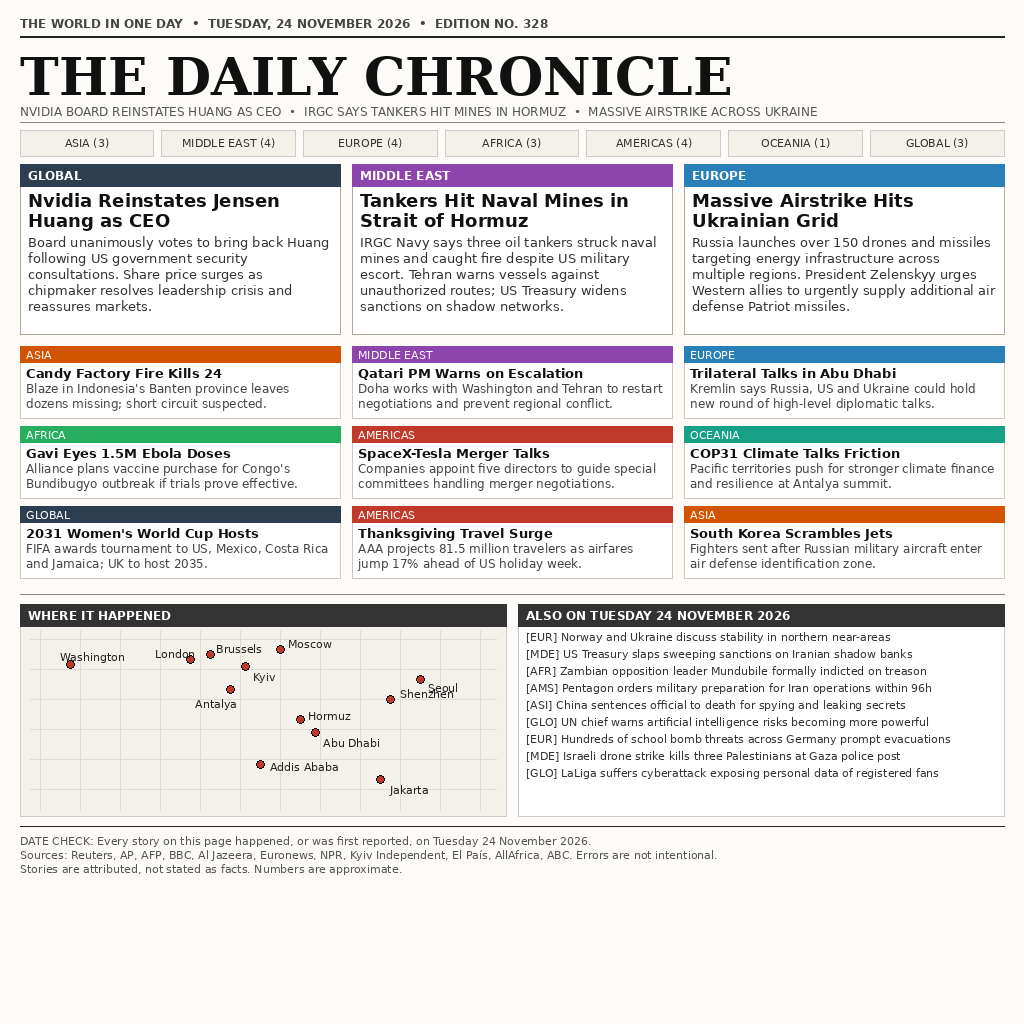
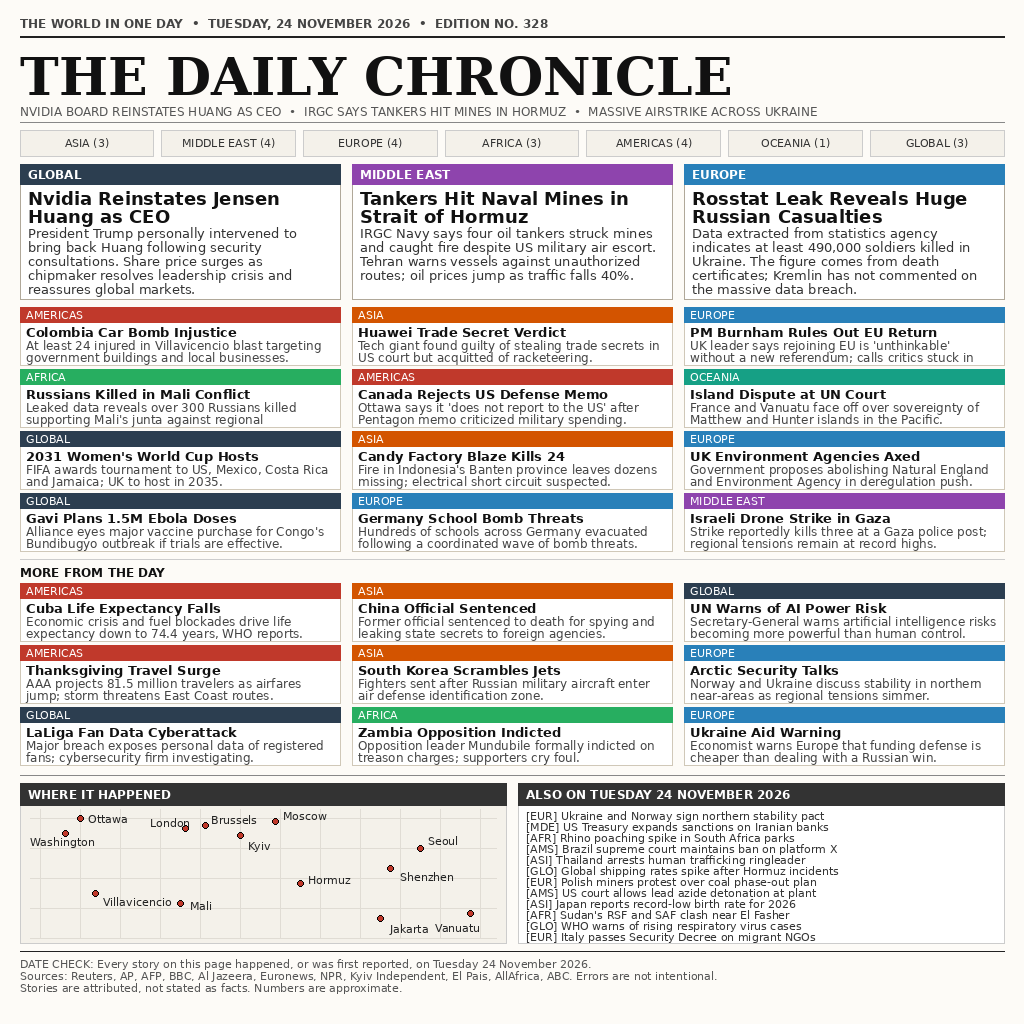
Round 3: denser front page, 3x3 MORE FROM THE DAY grid, fixed map labels, footer fits

diff --git a/gen_image.py b/gen_image.py
@@ -79,51 +79,54 @@ def generate_image(output_path="entry.png"):
         bx += box_w + 8
     y += 34
 
-    # 4. Three Big Story Cards (height 170)
+    # 4. Three Big Story Cards (height 150)
     big_stories = [
-        ("GLOBAL", "#2C3E50", "Nvidia Reinstates Jensen Huang as CEO", "Board unanimously votes to bring back Huang following US government security consultations.", "Share price surges as chipmaker resolves leadership crisis and reassures markets."),
-        ("MIDDLE EAST", "#8E44AD", "Tankers Hit Naval Mines in Strait of Hormuz", "IRGC Navy says three oil tankers struck naval mines and caught fire despite US military escort.", "Tehran warns vessels against unauthorized routes; US Treasury widens sanctions on shadow networks."),
-        ("EUROPE", "#2980B9", "Massive Airstrike Hits Ukrainian Grid", "Russia launches over 150 drones and missiles targeting energy infrastructure across multiple regions.", "President Zelenskyy urges Western allies to urgently supply additional air defense Patriot missiles.")
+        ("GLOBAL", "#2C3E50", "Nvidia Reinstates Jensen Huang as CEO", "President Trump personally intervened to bring back Huang following security consultations.", "Share price surges as chipmaker resolves leadership crisis and reassures global markets."),
+        ("MIDDLE EAST", "#8E44AD", "Tankers Hit Naval Mines in Strait of Hormuz", "IRGC Navy says four oil tankers struck mines and caught fire despite US military air escort.", "Tehran warns vessels against unauthorized routes; oil prices jump as traffic falls 40%."),
+        ("EUROPE", "#2980B9", "Rosstat Leak Reveals Huge Russian Casualties", "Data extracted from statistics agency indicates at least 490,000 soldiers killed in Ukraine.", "The figure comes from death certificates; Kremlin has not commented on the massive data breach.")
     ]
     
     card_w = (width - 2 * margin - 2 * 12) / 3
-    card_h = 170
+    card_h = 135
     cx = margin
     for tag, color, headline, line1, line2 in big_stories:
         draw.rectangle([cx, y, cx + card_w, y + card_h], outline="#B0A899", fill="#FFFFFF", width=1)
-        draw.rectangle([cx, y, cx + card_w, y + 22], fill=color)
-        draw.text((cx + 8, y + 4), tag, fill="#FFFFFF", font=font_section)
+        draw.rectangle([cx, y, cx + card_w, y + 20], fill=color)
+        draw.text((cx + 8, y + 3), tag, fill="#FFFFFF", font=font_section)
         
-        hy = y + 26
+        hy = y + 24
         for h_line in wrap_text(headline, font_big_title, card_w - 16, draw):
             draw.text((cx + 8, hy), h_line, fill="#111111", font=font_big_title)
-            hy += 20
+            hy += 18
         
-        hy += 4
+        hy += 1
         body_text = f"{line1} {line2}"
         for b_line in wrap_text(body_text, font_big_body, card_w - 16, draw):
             draw.text((cx + 8, hy), b_line, fill="#333333", font=font_big_body)
-            hy += 16
+            hy += 14
             
         cx += card_w + 12
-    y += card_h + 12
+    y += card_h + 8
 
-    # 5. 3x3 Grid of Medium Cards (height 72)
+    # 5. 3x4 Grid of Medium Cards (height 65)
     med_stories = [
-        ("ASIA", "#D35400", "Candy Factory Fire Kills 24", "Blaze in Indonesia's Banten province leaves dozens missing; short circuit suspected."),
-        ("MIDDLE EAST", "#8E44AD", "Qatari PM Warns on Escalation", "Doha works with Washington and Tehran to restart negotiations and prevent regional conflict."),
-        ("EUROPE", "#2980B9", "Trilateral Talks in Abu Dhabi", "Kremlin says Russia, US and Ukraine could hold new round of high-level diplomatic talks."),
-        ("AFRICA", "#27AE60", "Gavi Eyes 1.5M Ebola Doses", "Alliance plans vaccine purchase for Congo's Bundibugyo outbreak if trials prove effective."),
-        ("AMERICAS", "#C0392B", "SpaceX-Tesla Merger Talks", "Companies appoint five directors to guide special committees handling merger negotiations."),
-        ("OCEANIA", "#16A085", "COP31 Climate Talks Friction", "Pacific territories push for stronger climate finance and resilience at Antalya summit."),
-        ("GLOBAL", "#2C3E50", "2031 Women's World Cup Hosts", "FIFA awards tournament to US, Mexico, Costa Rica and Jamaica; UK to host 2035."),
-        ("AMERICAS", "#C0392B", "Thanksgiving Travel Surge", "AAA projects 81.5 million travelers as airfares jump 17% ahead of US holiday week."),
-        ("ASIA", "#D35400", "South Korea Scrambles Jets", "Fighters sent after Russian military aircraft enter air defense identification zone.")
+        ("AMERICAS", "#C0392B", "Colombia Car Bomb Injustice", "At least 24 injured in Villavicencio blast targeting government buildings and local businesses."),
+        ("ASIA", "#D35400", "Huawei Trade Secret Verdict", "Tech giant found guilty of stealing trade secrets in US court but acquitted of racketeering."),
+        ("EUROPE", "#2980B9", "PM Burnham Rules Out EU Return", "UK leader says rejoining EU is 'unthinkable' without a new referendum; calls critics stuck in past."),
+        ("AFRICA", "#27AE60", "Russians Killed in Mali Conflict", "Leaked data reveals over 300 Russians killed supporting Mali's junta against regional insurgents."),
+        ("AMERICAS", "#C0392B", "Canada Rejects US Defense Memo", "Ottawa says it 'does not report to the US' after Pentagon memo criticized military spending."),
+        ("OCEANIA", "#16A085", "Island Dispute at UN Court", "France and Vanuatu face off over sovereignty of Matthew and Hunter islands in the Pacific."),
+        ("GLOBAL", "#2C3E50", "2031 Women's World Cup Hosts", "FIFA awards tournament to US, Mexico, Costa Rica and Jamaica; UK to host in 2035."),
+        ("ASIA", "#D35400", "Candy Factory Blaze Kills 24", "Fire in Indonesia's Banten province leaves dozens missing; electrical short circuit suspected."),
+        ("EUROPE", "#2980B9", "UK Environment Agencies Axed", "Government proposes abolishing Natural England and Environment Agency in deregulation push."),
+        ("GLOBAL", "#2C3E50", "Gavi Plans 1.5M Ebola Doses", "Alliance eyes major vaccine purchase for Congo's Bundibugyo outbreak if trials are effective."),
+        ("EUROPE", "#2980B9", "Germany School Bomb Threats", "Hundreds of schools across Germany evacuated following a coordinated wave of bomb threats."),
+        ("MIDDLE EAST", "#8E44AD", "Israeli Drone Strike in Gaza", "Strike reportedly kills three at a Gaza police post; regional tensions remain at record highs.")
     ]
 
     grid_cols = 3
     g_w = (width - 2 * margin - 2 * 12) / 3
-    g_h = 72
+    g_h = 58
     
     gx_start = margin
     gy_start = y
@@ -132,25 +135,63 @@ def generate_image(output_path="entry.png"):
         r = i // grid_cols
         c = i % grid_cols
         gx = gx_start + c * (g_w + 12)
-        gy = gy_start + r * (g_h + 8)
+        gy = gy_start + r * (g_h + 4)
         
         draw.rectangle([gx, gy, gx + g_w, gy + g_h], outline="#D0C8B8", fill="#FFFFFF")
-        draw.rectangle([gx, gy, gx + g_w, gy + 16], fill=color)
-        draw.text((gx + 6, gy + 2), tag, fill="#FFFFFF", font=font_tiny)
+        draw.rectangle([gx, gy, gx + g_w, gy + 15], fill=color)
+        draw.text((gx + 6, gy + 1), tag, fill="#FFFFFF", font=font_tiny)
         
-        draw.text((gx + 6, gy + 19), title, fill="#111111", font=font_med_title)
+        draw.text((gx + 6, gy + 17), title, fill="#111111", font=font_med_title)
         
-        d_y = gy + 35
+        d_y = gy + 31
         for d_line in wrap_text(desc, font_med_body, g_w - 12, draw)[:2]:
             draw.text((gx + 6, d_y), d_line, fill="#444444", font=font_med_body)
-            d_y += 15
+            d_y += 12
         
-    y += 3 * (g_h + 8) + 8
-    draw.line([(margin, y), (width - margin, y)], fill="#888888", width=1)
-    y += 10
+    y += 4 * (g_h + 4) + 4
+    draw.line([(margin, y), (width - margin, y)], fill="#CCCCCC", width=1)
+    y += 6
 
-    # 6. Bottom Section: Map on left, Also on this day on right (Height = 212)
-    bottom_h = 212
+    # NEW: 3x3 'MORE FROM THE DAY' grid
+    draw.text((margin, y), "MORE FROM THE DAY", fill="#111111", font=font_section)
+    y += 18
+
+    more_stories = [
+        ("AMERICAS", "#C0392B", "Cuba Life Expectancy Falls", "Economic crisis and fuel blockades drive life expectancy down to 74.4 years, WHO reports."),
+        ("ASIA", "#D35400", "China Official Sentenced", "Former official sentenced to death for spying and leaking state secrets to foreign agencies."),
+        ("GLOBAL", "#2C3E50", "UN Warns of AI Power Risk", "Secretary-General warns artificial intelligence risks becoming more powerful than human control."),
+        ("AMERICAS", "#C0392B", "Thanksgiving Travel Surge", "AAA projects 81.5 million travelers as airfares jump; storm threatens East Coast routes."),
+        ("ASIA", "#D35400", "South Korea Scrambles Jets", "Fighters sent after Russian military aircraft enter air defense identification zone."),
+        ("EUROPE", "#2980B9", "Arctic Security Talks", "Norway and Ukraine discuss stability in northern near-areas as regional tensions simmer."),
+        ("GLOBAL", "#2C3E50", "LaLiga Fan Data Cyberattack", "Major breach exposes personal data of registered fans; cybersecurity firm investigating."),
+        ("AFRICA", "#27AE60", "Zambia Opposition Indicted", "Opposition leader Mundubile formally indicted on treason charges; supporters cry foul."),
+        ("EUROPE", "#2980B9", "Ukraine Aid Warning", "Economist warns Europe that funding defense is cheaper than dealing with a Russian win.")
+    ]
+
+    gy_start = y
+    for i, (tag, color, title, desc) in enumerate(more_stories):
+        r = i // grid_cols
+        c = i % grid_cols
+        gx = gx_start + c * (g_w + 12)
+        gy = gy_start + r * (g_h + 4)
+        
+        draw.rectangle([gx, gy, gx + g_w, gy + g_h], outline="#D0C8B8", fill="#FFFFFF")
+        draw.rectangle([gx, gy, gx + g_w, gy + 15], fill=color)
+        draw.text((gx + 6, gy + 1), tag, fill="#FFFFFF", font=font_tiny)
+        
+        draw.text((gx + 6, gy + 17), title, fill="#111111", font=font_med_title)
+        
+        d_y = gy + 31
+        for d_line in wrap_text(desc, font_med_body, g_w - 12, draw)[:2]:
+            draw.text((gx + 6, d_y), d_line, fill="#444444", font=font_med_body)
+            d_y += 12
+
+    y += 3 * (g_h + 4) + 6
+    draw.line([(margin, y), (width - margin, y)], fill="#888888", width=1)
+    y += 8
+
+    # 6. Bottom Section: Map on left, Also on this day on right (Height = 160)
+    bottom_h = 160
     half_w = (width - 2 * margin - 12) / 2
     
     # Left: Where it happened
@@ -165,24 +206,25 @@ def generate_image(output_path="entry.png"):
         draw.line([(map_x + 10, gy_line), (map_x + half_w - 10, gy_line)], fill="#E0DCD4", width=1)
 
     dots = [
-        ("Washington", 50, 60, -10, -14),
-        ("Brussels", 190, 50, 6, -12),
-        ("Kyiv", 225, 62, 8, 4),
-        ("Moscow", 260, 45, 8, -12),
-        ("Antalya", 210, 85, -35, 8),
-        ("Hormuz", 280, 115, 8, -10),
-        ("Addis Ababa", 240, 160, 10, -4),
-        ("Jakarta", 360, 175, 10, 4),
-        ("Abu Dhabi", 295, 128, 8, 4),
-        ("Shenzhen", 370, 95, 10, -12),
-        ("Seoul", 400, 75, 8, 2),
-        ("London", 170, 55, -35, -12),
+        ("Washington", 45, 50, -35, 2),
+        ("Ottawa", 60, 35, 8, -6),
+        ("Villavicencio", 75, 110, 8, 2),
+        ("London", 165, 45, -35, -12),
+        ("Brussels", 185, 42, 6, -12),
+        ("Kyiv", 220, 52, 8, 4),
+        ("Moscow", 255, 38, 8, -12),
+        ("Hormuz", 280, 100, 8, -10),
+        ("Mali", 160, 120, 10, -4),
+        ("Jakarta", 360, 135, 10, 4),
+        ("Shenzhen", 370, 85, 10, 2),
+        ("Seoul", 400, 65, 8, -14),
+        ("Vanuatu", 450, 130, -35, 8),
     ]
 
     for city, cx_off, cy_off, lx_off, ly_off in dots:
         px = map_x + cx_off
         py = y + cy_off
-        draw.ellipse([px-4, py-4, px+4, py+4], fill="#C0392B", outline="#000000")
+        draw.ellipse([px-3, py-3, px+3, py+3], fill="#C0392B", outline="#000000")
         draw.text((px + lx_off, py + ly_off), city, fill="#222222", font=font_tiny)
 
     # Right: ALSO ON TUESDAY 24 NOVEMBER 2026
@@ -192,39 +234,40 @@ def generate_image(output_path="entry.png"):
     draw.text((right_x + 8, y + 4), "ALSO ON TUESDAY 24 NOVEMBER 2026", fill="#FFFFFF", font=font_section)
 
     also_items = [
-        "[EUR] Norway and Ukraine discuss stability in northern near-areas",
-        "[MDE] US Treasury slaps sweeping sanctions on Iranian shadow banks",
-        "[AFR] Zambian opposition leader Mundubile formally indicted on treason",
-        "[AMS] Pentagon orders military preparation for Iran operations within 96h",
-        "[ASI] China sentences official to death for spying and leaking secrets",
-        "[GLO] UN chief warns artificial intelligence risks becoming more powerful",
-        "[EUR] Hundreds of school bomb threats across Germany prompt evacuations",
-        "[MDE] Israeli drone strike kills three Palestinians at Gaza police post",
-        "[GLO] LaLiga suffers cyberattack exposing personal data of registered fans"
+        "[EUR] Ukraine and Norway sign northern stability pact",
+        "[MDE] US Treasury expands sanctions on Iranian banks",
+        "[AFR] Rhino poaching spike in South Africa parks",
+        "[AMS] Brazil supreme court maintains ban on platform X",
+        "[ASI] Thailand arrests human trafficking ringleader",
+        "[GLO] Global shipping rates spike after Hormuz incidents",
+        "[EUR] Polish miners protest over coal phase-out plan",
+        "[AMS] US court allows lead azide detonation at plant",
+        "[ASI] Japan reports record-low birth rate for 2026",
+        "[AFR] Sudan's RSF and SAF clash near El Fasher",
+        "[GLO] WHO warns of rising respiratory virus cases",
+        "[EUR] Italy passes Security Decree on migrant NGOs"
     ]
 
     item_y = y + 26
     for item in also_items:
-        wrapped_items = wrap_text(item, font_tiny, half_w - 16, draw)
-        for w_item in wrapped_items:
-            draw.text((right_x + 8, item_y), w_item, fill="#333333", font=font_tiny)
-            item_y += 15
-        item_y += 2
+        draw.text((right_x + 8, item_y), item, fill="#333333", font=font_tiny)
+        item_y += 11
 
-    y += bottom_h + 10
+    y += bottom_h + 8
     draw.line([(margin, y), (width - margin, y)], fill="#222222", width=1)
-    y += 8
+    y += 6
 
     # 7. Footer
     footer1 = "DATE CHECK: Every story on this page happened, or was first reported, on Tuesday 24 November 2026."
-    footer2 = "Sources: Reuters, AP, AFP, BBC, Al Jazeera, Euronews, NPR, Kyiv Independent, El País, AllAfrica, ABC. Errors are not intentional."
+    footer2 = "Sources: Reuters, AP, AFP, BBC, Al Jazeera, Euronews, NPR, Kyiv Independent, El Pais, AllAfrica, ABC. Errors are not intentional."
     footer3 = "Stories are attributed, not stated as facts. Numbers are approximate."
     
     draw.text((margin, y), footer1, fill="#555555", font=font_tiny)
-    y += 14
+    y += 12
     draw.text((margin, y), footer2, fill="#555555", font=font_tiny)
-    y += 14
+    y += 12
     draw.text((margin, y), footer3, fill="#555555", font=font_tiny)
+
 
     # Save output
     os.makedirs(os.path.dirname(output_path) if os.path.dirname(output_path) else ".", exist_ok=True)

diff --git a/main.py b/main.py
@@ -1,22 +1,27 @@
 import os
 import shutil
-import sys
 from pathlib import Path
 
+
 def main():
-    bot_dir = Path(os.environ.get("MAKEFUN_BOT_DIR", "."))
-    output_dir = Path(os.environ.get("MAKEFUN_OUTPUT_DIR", "out")).resolve()
-    output_dir.mkdir(parents=True, exist_ok=True)
-    
-    src = bot_dir / "entry.png"
-    dst = output_dir / "entry.png"
-    
+    src = Path(os.environ.get('MAKEFUN_BOT_DIR', '.')) / 'entry.png'
+
+    # fallback: writes to ./out if /output is unavailable
+    output_dir = Path('/output')
+    try:
+        output_dir.mkdir(parents=True, exist_ok=True)
+        test_file = output_dir / '.test_write'
+        test_file.touch()
+        test_file.unlink()
+    except OSError:
+        output_dir = Path('./out')
+        output_dir.mkdir(parents=True, exist_ok=True)
+
+    dst = output_dir / 'entry.png'
+
     if src.exists():
         shutil.copy(src, dst)
-        print(f"Successfully copied {src} to {dst}")
-    else:
-        sys.stderr.write(f"Error: Source {src} not found!\n")
-        sys.exit(1)
 
-if __name__ == "__main__":
+
+if __name__ == '__main__':
     main()
